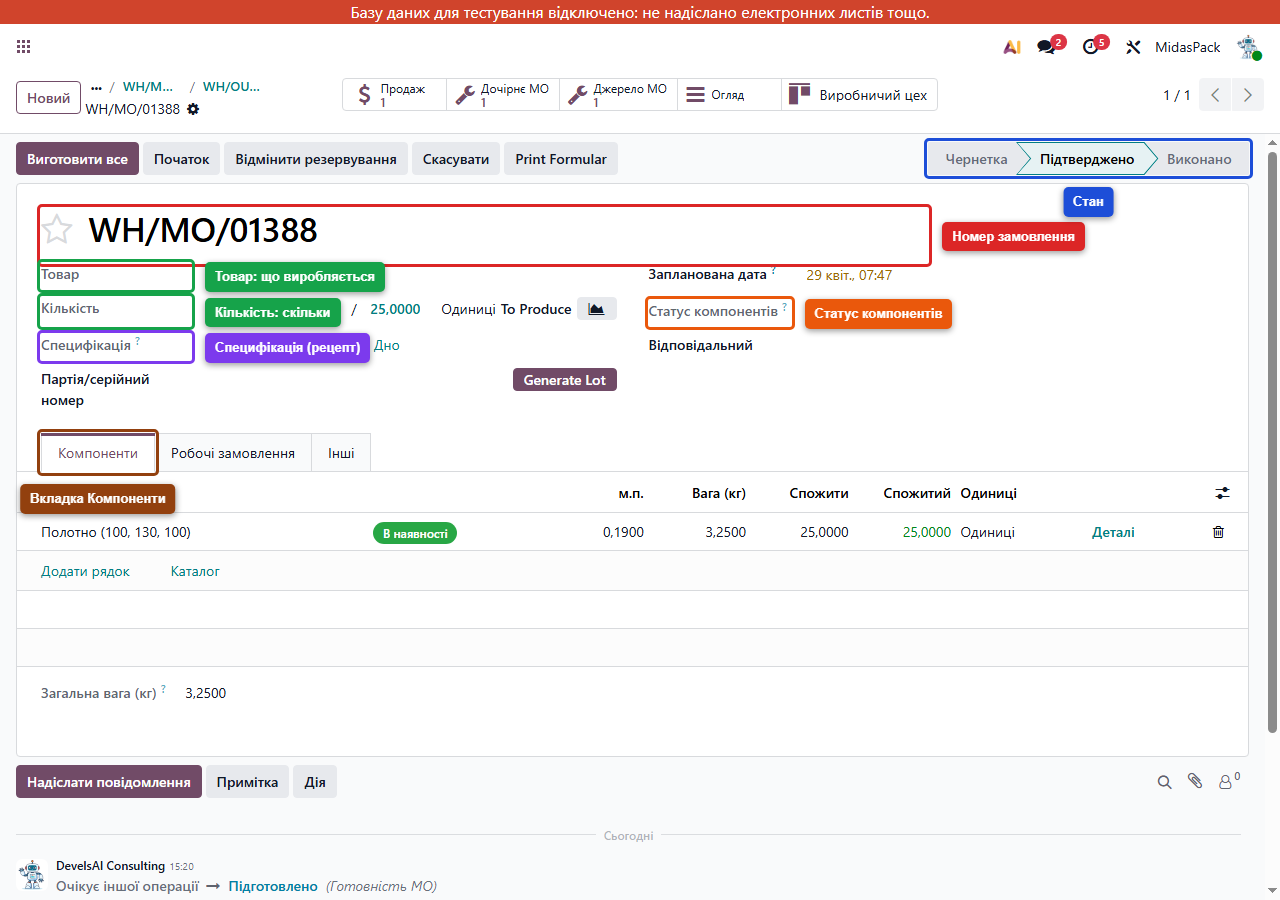
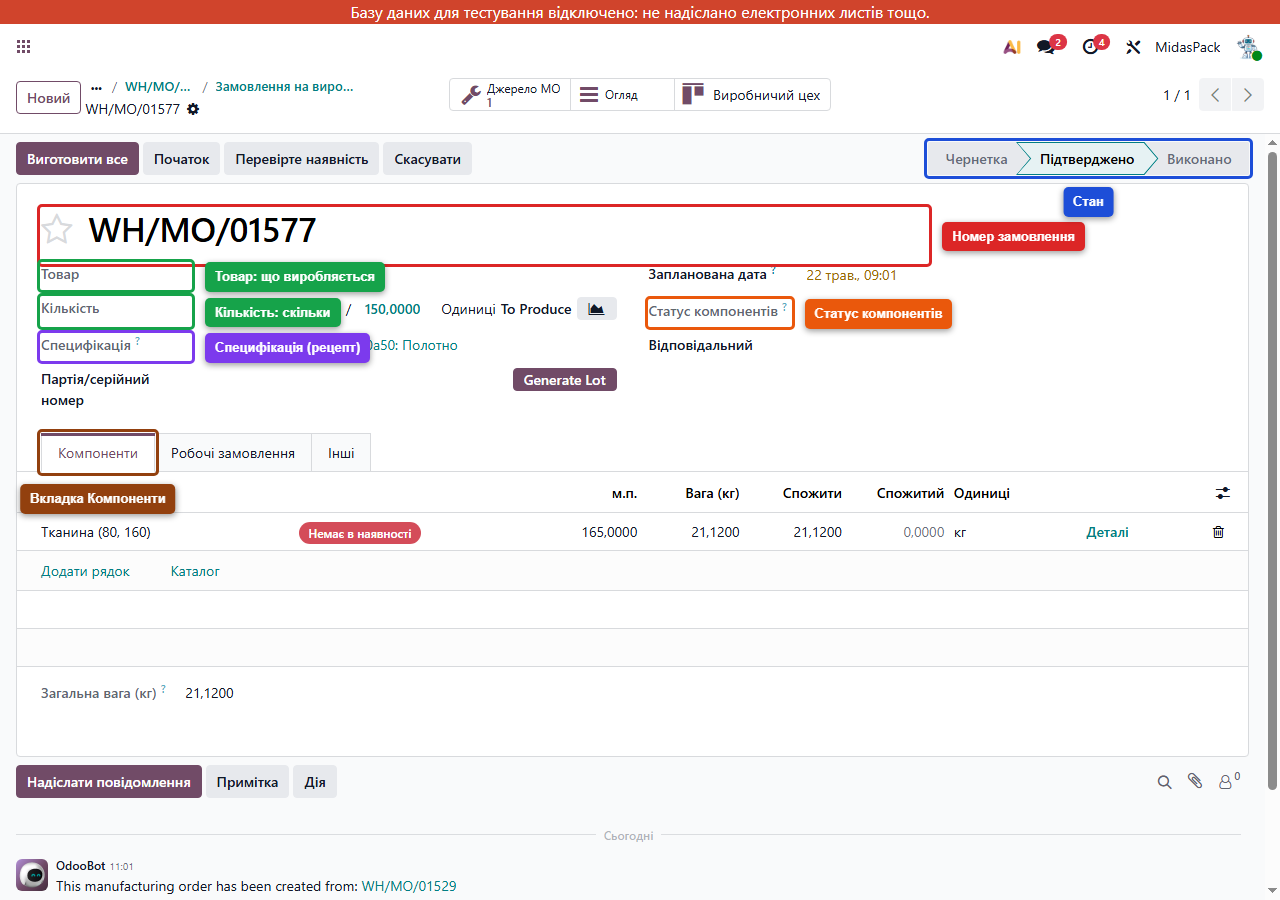
Rewrite example to MO-01 150pcs (8-MO tree with 4 levels). Add section 9: Product filtering

diff --git a/README.md b/README.md
@@ -10,7 +10,7 @@
 
 Щоб не плутати — три головні документи, які бачитимеш в Odoo:
 
-- **Замовлення на продаж** (англійською Sales Order, SO). Створюється з конфігуратора, коли менеджер оформлює замовлення клієнта. Містить клієнта, товар (наприклад «Майка»), кількість. У Odoo лежить у меню **Продажі**.
+- **Замовлення на продаж** (англійською Sales Order, SO). Створюється з конфігуратора, коли менеджер оформлює замовлення клієнта. Містить клієнта, товар (наприклад «Біг-бег»), кількість. У Odoo лежить у меню **Продажі**.
 - **Замовлення на виробництво** (англійською Manufacturing Order, MO). Це **виробниче завдання** — «виготовити стільки-то того-то». Створюється Odoo автоматично з замовлення на продаж. Лежить у меню **Виробництво → Операції → Замовлення на виробництво**. Це **основний документ, з яким ти працюєш**.
 - **Замовлення на доставку** (англійською Delivery Order). Створюється Odoo автоматично, коли головне замовлення на виробництво завершилось. Це для складу — щоб відвантажити клієнту. Лежить у меню **Склад → Операції → Замовлення на доставку**.
 
@@ -23,9 +23,11 @@
 
 ## Приклад, який використовуємо в інструкції
 
-MidasPack виробляє кілька **типів** біг-бегів: Майка, U-Panel, Q-bag та інші. У всіх прикладах нижче ми проганяємо один реальний приклад з типом **Майка (Верх відкритий, Дно глухе)** — замовлення `S00280` на 25 шт для клієнта ТОВ АМІЛА. Принципи однакові для всіх типів — якщо у тебе U-Panel чи Q-bag, ти будеш робити те саме, просто з іншою назвою товару і своїм набором частин.
+MidasPack виробляє кілька **типів** біг-бегів: Біг-бег Майка, Біг-бег з фартухом, Біг-бег з клапаном, U-Panel, Q-bag та інші. У всіх прикладах нижче ми проганяємо реальне виробниче замовлення з тестового середовища — **`MO-01 150pcs`**: 150 штук типу **Біг-бег (Верхній клапан, Дно глухе)**.
 
-Тому коли в тексті бачиш «головне замовлення на виробництво» / «готовий біг-бег» — у нашому конкретному прикладі це **Майка**. У твоїй практиці там може бути інший тип.
+Принципи однакові для всіх типів — якщо у тебе U-Panel чи Q-bag, ти будеш робити те саме, просто з іншою назвою товару і своїм набором частин.
+
+Коли в тексті бачиш «головне замовлення на виробництво» / «готовий біг-бег» — у нашому прикладі це батьківський `MO-01 150pcs`. У твоїй практиці там може бути інший номер (типу `WH/MO/01XXXX`) і інший тип.
 
 ---
 
@@ -39,10 +41,10 @@ MidasPack виробляє кілька **типів** біг-бегів: Май
 
 На цьому екрані ти бачиш усі замовлення на виробництво — і свіжі, і ті, що вже в роботі, і виконані. Колонки кажуть тобі:
 
-- **Референс (номер)** — унікальний код, типу WH/MO/01386. Це твій орієнтир для пошуку.
+- **Референс (номер)** — унікальний код, типу `WH/MO/01527` або `MO-01 150pcs`. Це твій орієнтир для пошуку.
 - **Товар** — що саме треба виробити.
 - **Кількість** — скільки штук за планом.
-- **Джерело** — номер замовлення на продаж, від якого прилетіло (типу S00280). За цим номером можна знайти всі споріднені замовлення на виробництво.
+- **Джерело** — звідки прилетіло замовлення. Для дочірніх — це номер головного MO (наприклад `MO-01 150pcs`). Для головного — номер клієнтського замовлення (типу `S00XXX`) або порожнє, якщо створене виробничим планом без SO.
 - **Статус компонентів** — кольоровий значок: **В наявності** (зелений) = все є, можна робити; **Очікує** = чекає інше замовлення; **Немає в наявності** (червоний) = бракує сировини.
 - **Область (стан)** — на якій стадії: Чернетка → Підтверджено → У процесі → Виконано.
 
@@ -58,7 +60,7 @@ MidasPack виробляє кілька **типів** біг-бегів: Май
 
 Що ти бачиш на формі:
 
-- **Номер** угорі великими літерами (наприклад WH/MO/01388).
+- **Номер** угорі великими літерами (наприклад `WH/MO/01577`).
 - **Товар і кількість** — що і скільки виробляєш.
 - **Стан** угорі справа (Чернетка / Підтверджено / Виконано) — підсвічений поточний.
 - **Статус компонентів** — кольоровий індикатор: зелена **«В наявності»** або **«Немає в наявності»**. Це найважливіше для рішення «можна робити чи ще ні».
@@ -69,17 +71,48 @@ MidasPack виробляє кілька **типів** біг-бегів: Май
 
 ---
 
-## 3. Одне замовлення на продаж = кілька замовлень на виробництво
+## 3. Одне замовлення на продаж = ціле дерево замовлень на виробництво
 
-Один біг-бег складається з кількох частин: полотно, дно, основа, стропи, верх. Тому Odoo на одне замовлення на продаж створює **відразу декілька замовлень на виробництво** — окреме під кожну частину, плюс одне окреме на сам готовий біг-бег.
+Один Біг-бег виготовляється з кількох частин: Основа, Верх, Дно, Стропа. Деякі з цих частин (Верх, Дно) теж не «з нічого» — вони виробляються з ще глибших напівфабрикатів: Полотно, Полотно Ламіноване, Труба Ламінована. Тому Odoo на один замовлений Біг-бег створює **відразу ціле дерево замовлень на виробництво** — окремо під кожну частину і кожен напівфабрикат, плюс одне головне на сам готовий Біг-бег.
 
-Замовлення на виробництво від однієї покупки мають однакове **Джерело** (наприклад, усі з S00280). Так ти бачиш, що це «одна команда» виробничих завдань.
+Усі замовлення на виробництво в одному дереві мають однакове **Джерело**. Так ти бачиш, що це «одна команда» виробничих завдань.
 
-**Послідовність виробництва — знизу вгору.** Спочатку роби замовлення на виробництво окремих частин (типу Полотна), потім — на більші частини (Дно, Основа), і **в останню чергу** — головне замовлення на сам готовий біг-бег.
+**Дерево нашого прикладу `MO-01 150pcs`:**
 
-Як зрозуміти, що йде «першим»: дивись на статус компонентів.
-- Зелена **«В наявності»** одразу — найпростіше дочірнє замовлення, починай з нього.
-- «Очікує» — це замовлення чекає, поки інше буде виконане. До нього доберешся пізніше.
+```
+MO-01 150pcs           ← КОРІНЬ: Біг-бег (Верхній клапан, Дно глухе), 150 шт
+│                         + чиста сировина: Нитка PP, Фарба, Кишеня A4
+│
+├── WH/MO/01527  Основа (170, 200, 170), 150 шт
+│                  ← Рукав (170, 200)  — сировина
+│
+├── WH/MO/01528  Верх (Верхній клапан), 150 шт
+│   ├── WH/MO/01575  Труба Ламінована, 150 шт
+│   │                  ← Рукав ламінований  — сировина
+│   ├── WH/MO/01576  Полотно Ламіноване, 150 шт
+│   │                  ← Тканина ламінована  — сировина
+│   ├── + чиста сировина: Нитка PP, Тасьма
+│
+├── WH/MO/01529  Дно (Дно глухе, 80, 160), 150 шт
+│   └── WH/MO/01577  Полотно (80, 160, 110), 150 шт
+│                      ← Тканина (80, 160)  — сировина
+│
+└── WH/MO/01530  Стропа (Зелена, 40), 600 шт
+                  ← Катушка Строп  — сировина
+```
+
+Дерево має **до 4-х рівнів глибини**: Тканина → Полотно → Дно → Біг-бег. Усі **8 замовлень** на виробництво в цій групі підтверджені одночасно, коли спрацював конфігуратор.
+
+### Як зв'язані дочірні з головним
+
+В Odoo це працює так: коли дочірнє замовлення виконано (наприклад `01577 Полотно` стало `Виконано`), готовий товар (Полотно) **не йде на загальний склад** — він **одразу резервується для свого батька** (`01529 Дно`). Те саме коли `01529 Дно` стає Done — Дно резервується для головного `MO-01`. Так працює весь ланцюг.
+
+**Послідовність виробництва — знизу вгору.** Спочатку треба завершувати найглибші замовлення (рівень 3-4: Полотно, Полотно Ламіноване, Труба Ламінована), потім середні (Основа, Верх, Дно), і в останню чергу — головний `MO-01`.
+
+Як зрозуміти що йде «першим» — дивися на статус компонентів:
+
+- **«В наявності» / Assigned одразу** — найпростіше: треба тільки сировина зі складу, ніяких дочірніх не чекає. Починай звідси (`01530 Стропа`, `01575 Труба Ламінована`).
+- **«Очікує» / Waiting** — це замовлення чекає, поки інше буде виконано. До нього доберешся пізніше.
 
 ![Послідовність виконання](screenshots/03-order-of-mo.png)
 
@@ -87,9 +120,9 @@ MidasPack виробляє кілька **типів** біг-бегів: Май
 
 ## 4. Один цикл виробництва — крок за кроком
 
-Робимо живий приклад: виконуємо дочірнє замовлення на виробництво **WH/MO/01388 — Дно (Дно глухе, 90, 130), 25 шт**.
+Робимо живий приклад: виконуємо найглибше дочірнє замовлення **`WH/MO/01577` — Полотно (80, 160, 110), 150 шт**.
 
-**Крок 1.** Знайди замовлення в списку (можна через пошук зверху, ввівши `01388`), клацни — відкриється форма. Перевір: стан «Підтверджено», статус компонентів «В наявності» (зелене).
+**Крок 1.** Знайди замовлення у списку (через пошук зверху, ввівши `01577`), клацни — відкриється форма. Перевір: стан «Підтверджено», статус компонентів «В наявності» (зелене).
 
 ![Форма перед запуском](screenshots/04-before-validate.png)
 
@@ -97,14 +130,15 @@ MidasPack виробляє кілька **типів** біг-бегів: Май
 
 **Що станеться одразу:**
 - Стан угорі переключиться на **«Виконано»**.
-- На склад надійде вказана кількість готового товару.
-- Сировина (компоненти) спишеться у потрібній кількості.
+- На склад надійде 150 шт Полотна (80, 160, 110).
+- Сировина — Тканина (80, 160) — спишеться у потрібній кількості.
+- Усі 150 штук одразу зарезервуються для свого батька — `01529 Дно`. Стан `01529` стане «В наявності».
 - У стрічці подій праворуч додасться запис «Виконано» з твоїм іменем і часом.
 - На формі з'явиться нова кнопка **«Відстеження»** — звіт, який показує з якої сировини зроблено цю партію і куди потім поїде.
 
 ![Форма після виконання](screenshots/06-after-validate.png)
 
-Все, замовлення на виробництво завершене. Воно більше не блокує наступних — якщо інші замовлення чекали цей товар, він у них одразу зарезервується.
+Все, замовлення на виробництво завершене. Тепер можна йти до наступного по дереву — наприклад `01529 Дно`, у якого тепер усі компоненти готові.
 
 ---
 
@@ -112,7 +146,7 @@ MidasPack виробляє кілька **типів** біг-бегів: Май
 
 Не кожне замовлення можна виконати одразу. Якщо ти відкрив форму і бачиш не зелене — ось що це значить і що робити.
 
-**«Очікує»** (жовтий або синій значок): компонент потребує іншого замовлення на виробництво, яке ще не виконано. Це **нормально**, треба просто спочатку завершити то інше. У вкладці «Компоненти» зазвичай видно «звідки» очікується компонент.
+**«Очікує»** (жовтий або синій значок): компонент потребує іншого замовлення на виробництво, яке ще не виконано. Це **нормально**, треба просто спочатку завершити то інше. У вкладці «Компоненти» зазвичай видно «звідки» очікується компонент (інший номер MO).
 
 **«Немає в наявності»** (червоний значок): сировина закінчилась на складі. **Не намагайся натиснути «Виготовити все»** — Odoo не пропустить. Дій:
 
@@ -124,43 +158,45 @@ MidasPack виробляє кілька **типів** біг-бегів: Май
 
 ---
 
-## 6. Виконання головного замовлення на виробництво (готовий біг-бег)
+## 6. Виконання головного замовлення на виробництво (готовий Біг-бег)
 
-Коли всі дочірні замовлення (на частини) виконано — приходить час головного замовлення на виробництво, того, що виготовляє готовий біг-бег для клієнта. У нашому прикладі це **Майка** (`WH/MO/01386`).
+Коли всі дочірні замовлення (на частини) виконано — приходить час головного замовлення на виробництво, того, що виготовляє готовий Біг-бег для клієнта. У нашому прикладі це **`MO-01 150pcs`**.
 
-Воно **завжди** в одній «команді» з дочірніми (однакове джерело SO). Впізнати його легко за товаром: це той товар, який замовив клієнт (у нас — `Майка (Верх відкритий, Дно глухе)`; у тебе може бути U-Panel, Q-bag тощо).
+Воно **завжди** в одній «команді» з дочірніми (однакове джерело). Впізнати його легко за товаром: це той товар, який замовив клієнт (наприклад `Біг-бег (Верхній клапан, Дно глухе)`).
 
 Перш ніж тиснути «Виготовити все», переконайся:
 - Усі **дочірні замовлення** (на частини) — у стані «Виконано».
-- **Власна сировина** головного замовлення (нитки, манжети, клей) — теж «В наявності» (зелена).
+- **Власна сировина** головного замовлення (нитки, фарба, кишеня документів) — теж «В наявності» (зелена).
 
 Якщо щось не так — натиснеш і Odoo покаже діалог **«Недійсна операція»** з переліком, чого саме бракує.
 
 ![Діалог Недійсна операція](screenshots/08-invalid-operation.png)
 
 У такому випадку:
-- Якщо в переліку **частини біг-бега** (Основа, Дно, Верх...): спочатку виконай ті дочірні замовлення на виробництво.
-- Якщо в переліку **сировина** (Нитка, Манжет, Клей): передавай на склад/постачання, поповнюй.
+- Якщо в переліку **частини біг-бега** (Основа, Дно, Верх, Стропа): спочатку виконай ті дочірні замовлення на виробництво.
+- Якщо в переліку **сировина** (Нитка, Фарба, Кишеня): передавай на склад/постачання, поповнюй.
 
-Як усе виправиш — натискай «Виготовити все» ще раз. Тоді головне замовлення закриється і на склад надійде готовий біг-бег у вказаній кількості.
+Як усе виправиш — натискай «Виготовити все» ще раз. Тоді головне замовлення закриється і на склад надійде готовий Біг-бег у вказаній кількості.
 
 ---
 
 ## 7. Відвантаження готового товару клієнту
 
-Як тільки головне замовлення на виробництво виконано, Odoo автоматично створює **Замовлення на доставку** — це той документ, за яким склад відвантажує клієнту.
+Якщо замовлення прилетіло з конфігуратора (з Sales Order), то як тільки головне замовлення на виробництво виконано, Odoo автоматично створює **Замовлення на доставку** — це той документ, за яким склад відвантажує клієнту.
 
 **Шлях у меню:** Склад → Операції → Замовлення на доставку.
 
 ![Список замовлень на доставку](screenshots/09-delivery-list.png)
 
-У списку шукай рядок з номером твого замовлення на продаж (наприклад S00280) у колонці **Джерело**. Стан зазвичай **«Готово»** (зелене), якщо все виробництво завершилось.
+У списку шукай рядок з номером твого замовлення на продаж у колонці **Джерело**. Стан зазвичай **«Готово»** (зелене), якщо все виробництво завершилось.
 
 Клацни — відкриється форма доставки.
 
 ![Форма замовлення на доставку](screenshots/10-delivery-form.png)
 
 Натисни кнопку **«Підтвердити»** — товар спишеться зі складу до клієнта. У стрічці подій з'явиться запис «Виконано». На цьому замовлення повністю закрите.
+
+**Зауваження:** якщо замовлення на виробництво створено не з конфігуратора, а як **виробничий план** (без SO) — то Замовлення на доставку **не з'являється** автоматично. Готовий товар просто лежить на складі. Це нормально для випадків коли виробляємо «у запас», а не під конкретного клієнта.
 
 ---
 
@@ -207,19 +243,47 @@ MidasPack виробляє кілька **типів** біг-бегів: Май
 
 **Як з цим жити поки**: при кожній заміні **залишай примітку вручну** — натисни **«Надіслати повідомлення»** або **«Примітка»** у верхньому правому куті форми замовлення і коротко напиши: «Замінено [старий товар] на [новий товар], причина: […]». Так слід лишиться у чатері і завжди можна буде відновити що відбулось.
 
-### Сценарій з життя
+---
 
-«Конфігуратор підібрав `Тканина (100, 130, Стандарт)`, але на складі цієї тканини бракує, зате є `Тканина (105, 130, Стандарт)` — близька за параметрами. Виробничник:
-1. відкриває замовлення, заходить у Компоненти;
-2. видаляє рядок зі старою тканиною;
-3. додає рядок з новою тканиною на ту ж кількість;
-4. перевіряє, що зеленим стало «В наявності»;
-5. **пише примітку у чатер**: «Замінено Тканина (100, 130) → Тканина (105, 130), нема залишку 100-ї»;
-6. натискає «Виготовити все» — замовлення закривається».
+## 9. Як знайти потрібний товар у списку «Товари»
+
+Іноді треба переглянути не замовлення, а сам товар — щоб подивитись скільки його на складі, який у нього BOM, або шукати конкретну варіацію. Зайти можна так:
+
+**Шлях у меню:** Виробництво → Товари → Товари (або Склад → Товари — однаковий список).
+
+У списку буде багато товарів — у dev-середовищі їх близько 70 штук. Щоб не загубитись, користуйся такими фільтрами:
+
+![Список Товари з фільтрами](screenshots/13-products-filter.png)
+
+### Спосіб 1 — групувати за категорією
+
+У правому верхньому куті натисни **«Групувати за»** → обери **«Категорія товару»**. Список одразу розділиться на групи:
+
+- **Готова продукція** — готові Біг-беги, Майки. Те, що замовляє клієнт.
+- **Напівфабрикати** — Основа, Верх, Дно, Полотно, Стропа, Труба Ламінована. Те, що виготовляється в межах одного замовлення.
+- **Сировина** — Тканина, Рукав, Нитка, Фарба, Тасьма. Те, що купується або тримається на складі.
+
+Це найшвидше «у голові навести порядок». Зверни увагу: частина товарів може бути без категорії (з'являється в групі «Undefined») — це окрема технічна задача для розробників, поки що такі товари шукай прямо по назві.
+
+### Спосіб 2 — фільтрувати за маршрутом
+
+У тому ж правому куті натисни **«Фільтри»** → знайди фільтри за маршрутом:
+
+- **Manufacture** — все, що виробляється. Це готова продукція + напівфабрикати разом.
+- **Buy** — все, що купується у постачальника (типу спеціалізовані матеріали).
+- Без жодного маршруту — це чиста сировина, що лежить на складі сама по собі.
+
+Корисно коли треба швидко зрозуміти «це у нас з купівлі чи з виробництва?».
+
+### Спосіб 3 — пошук за назвою
+
+У рядку зверху просто почни вводити частину назви: `Полотно`, `Тканина`, `80, 160`. Працює як завжди — фільтрує список по підрядку.
+
+Найшвидший спосіб коли знаєш приблизно як товар називається.
 
 ---
 
-## 9. Коли застряг — куди звертатись
+## 10. Коли застряг — куди звертатись
 
 Бувають ситуації, коли система поводиться не так, як описано. Не пробуй «вгадати» рішення — краще передай інформацію далі.
 
